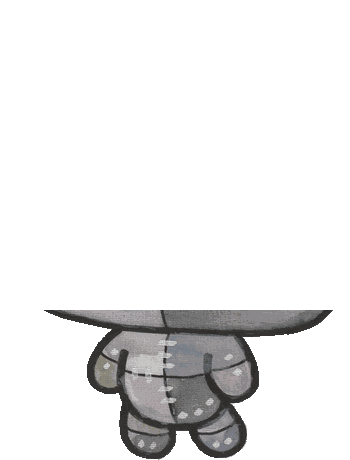
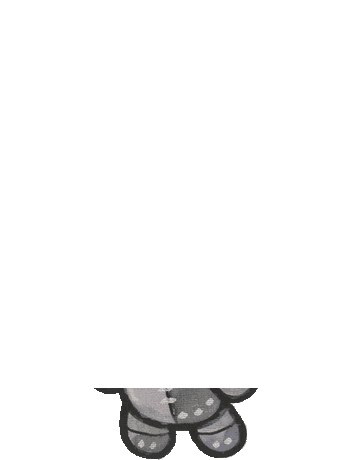
fq-cast-fix-v1: 294の2人が最初に散歩／滑る子のぶつかり解消／腰かけの切れ目を修正

Changed region(s): [[0.1429, 0.6696, 0.9429, 0.8522]]

diff --git a/index.html b/index.html
@@ -152,7 +152,18 @@ const FQ = {
          ★flip:true … この子の絵は左を向いている。散歩は「まず右へ行って帰る」
            動きなので、そのまま当てると行きの20秒間ずっと後ろ向きに歩く。
            絵を反転させるのではなく、動きの向きを絵に合わせている。 */
-      { photo:'img/ch_green.png', move:'walk',   at: 0, flip:true },
+      /* == fq-cast-fix-v1 ==
+         ★いちばん最初の散歩は「294くんと294ちゃんの2人」。
+           photo2 を書くと2人ならびになる（下の build() と .m-walk.duo を参照）。
+           2人とも正面を向いた絵なので flip は要らない。
+         ★前に散歩していた しか（img/ch_green.png）は、いまは出番なし。
+           ファイルは残してあるので、戻したくなったらここを書きかえるだけ。
+         ★ファイル名と中身がずれている子がいる（絵だけ差し替えたため）:
+             ch_beard.png … 白ひげ  → No.16（ふっくらして重そうな子）
+             ch_cat.png   … 黒猫    → No.03（ペガサスに乗った子）
+             ch_braid.png … 三つ編み → No.28（くろいクマ）
+             ch_wood.png  … 箱の顔  → No.26（グレーのうさぎ） */
+      { photo:'img/294kun.png', photo2:'img/294chan.png', move:'walk', at: 0 },
       { photo:'img/ch_beard.png', move:'drop',   at: 5.4  },
       { photo:'img/ch_cat.png',   move:'bounce', at: 15   },
       { photo:'img/ch_pink.png',  move:'skate',  at: 23   },
@@ -353,6 +364,16 @@ const FQ = {
          --aw:clamp(48px,14vw,80px);   /* fq-cast-v2: 自分の幅。落ちる子の位置計算に使う */
          width:var(--aw);pointer-events:none;user-select:none;}
   .actor img{display:block;width:100%;height:auto;transform-origin:50% 100%;}
+  /* == fq-cast-fix-v1 : 2人で散歩 ==
+     ★actors に photo2 を書くと、この形（duo）になる。
+       枠を2人ぶんの幅にして、絵を横にならべるだけ。動き方は1人のときと同じ。
+     ★2人めだけ足の運びを半歩ずらしてある（.34秒 ＝ 歩幅 .68秒の半分）。
+       そろえてしまうと2人が同じ動きになり、人形が2つ滑っていくように見える。
+     ★向きが変わるとき（scaleX(-1)）は並び順も入れかわる。
+       2人が向きを変えて帰ってくる形になるので、これでよい。 */
+  .m-walk.duo{--aw:clamp(88px,26vw,150px);display:flex;align-items:flex-end;}
+  .m-walk.duo img{width:50%;height:auto;}
+  .m-walk.duo img:last-child{animation-delay:.34s;}
 
   /* ① 歩く … 右へ行って、向きを変えて帰ってくる
         fq-walk-stroll-v1: 早足だったのを「散歩」の速さに変えた。
@@ -526,42 +547,50 @@ const FQ = {
   .m-skate{left:0;animation:a-skate 60s ease-in-out infinite;}
   .m-skate img{transform-origin:50% 92%;animation:i-spin 60s ease-in-out infinite;
                animation-delay:var(--at,0s);}   /* ★滑りと同じ出番に合わせる */
-  @keyframes a-skate{
+    /* == fq-cast-fix-v1 ==
+     ★8の字ぜんぶを右へずらした。理由は「落ちてくる子にぶつかっていた」から。
+       落ちる子は入場無料の丸の下に着地する。丸はロゴの幅で位置が決まるので、
+       画面が広いほど右に寄る（実測: 390pxで横4.6〜18.6%、1600pxで31.3〜36.3%）。
+       8の字は vw で書いてあるので、パソコンの幅だと左の輪が
+       ちょうど落ちる子の上を通っていた（1280pxで重なり100%＝貫通）。
+       いちばん左を 42vw にして、1600pxでもぶつからないようにした。
+     ★地面を動く子を足すときは、必ず広い画面（1280px以上）でも確かめること。 */
+@keyframes a-skate{
       /* ── 1回目：左から入って8の字を1周し、右へ抜ける（出番23秒／10秒） ──
          ★奥は 小さく(.80)・ほんの少し上(bottom 5%)、手前は 大きく(1.12)・下(1%)
          ★★奥行きは「大きさ」で出すこと。上下に動かしすぎると、
            奥へ行ったのではなく **上へ跳んだ** ように見える。ここを広げないこと。 */
       0%      {opacity:0; bottom:2.5%; transform:translateX(-90px) scaleX(1)  scale(1);}
       0.5%    {opacity:1; bottom:2.5%; transform:translateX(-90px) scaleX(1)  scale(1);}
-      2.0%    {opacity:1; bottom:2.5%; transform:translateX(48vw)  scaleX(1)  scale(1);}
-      3.0%    {opacity:1; bottom:5%;   transform:translateX(70vw)  scaleX(1)  scale(.80);}
-      4.0%    {opacity:1; bottom:3.5%; transform:translateX(80vw)  scaleX(1)  scale(.90);}
-      4.3%    {opacity:1; bottom:3.5%; transform:translateX(80vw)  scaleX(-1) scale(.90);}
-      5.5%    {opacity:1; bottom:1%;   transform:translateX(70vw)  scaleX(-1) scale(1.12);}
-      6.5%    {opacity:1; bottom:2.5%; transform:translateX(48vw)  scaleX(-1) scale(1);}
-      9.9%    {opacity:1; bottom:2.5%; transform:translateX(48vw)  scaleX(-1) scale(1);}
-     11.4%    {opacity:1; bottom:5%;   transform:translateX(26vw)  scaleX(-1) scale(.80);}
-     12.4%    {opacity:1; bottom:3.5%; transform:translateX(16vw)  scaleX(-1) scale(.90);}
-     12.7%    {opacity:1; bottom:3.5%; transform:translateX(16vw)  scaleX(1)  scale(.90);}
-     13.9%    {opacity:1; bottom:1%;   transform:translateX(26vw)  scaleX(1)  scale(1.12);}
-     14.9%    {opacity:1; bottom:2.5%; transform:translateX(48vw)  scaleX(1)  scale(1);}
+      2.0%    {opacity:1; bottom:2.5%; transform:translateX(62vw)  scaleX(1)  scale(1);}
+      3.0%    {opacity:1; bottom:5%;   transform:translateX(74vw)  scaleX(1)  scale(.80);}
+      4.0%    {opacity:1; bottom:3.5%; transform:translateX(82vw)  scaleX(1)  scale(.90);}
+      4.3%    {opacity:1; bottom:3.5%; transform:translateX(82vw)  scaleX(-1) scale(.90);}
+      5.5%    {opacity:1; bottom:1%;   transform:translateX(74vw)  scaleX(-1) scale(1.12);}
+      6.5%    {opacity:1; bottom:2.5%; transform:translateX(62vw)  scaleX(-1) scale(1);}
+      9.9%    {opacity:1; bottom:2.5%; transform:translateX(62vw)  scaleX(-1) scale(1);}
+     11.4%    {opacity:1; bottom:5%;   transform:translateX(50vw)  scaleX(-1) scale(.80);}
+     12.4%    {opacity:1; bottom:3.5%; transform:translateX(42vw)  scaleX(-1) scale(.90);}
+     12.7%    {opacity:1; bottom:3.5%; transform:translateX(42vw)  scaleX(1)  scale(.90);}
+     13.9%    {opacity:1; bottom:1%;   transform:translateX(50vw)  scaleX(1)  scale(1.12);}
+     14.9%    {opacity:1; bottom:2.5%; transform:translateX(62vw)  scaleX(1)  scale(1);}
      16.3%    {opacity:1; bottom:2.5%; transform:translateX(calc(100vw + 90px)) scaleX(1) scale(1);}
      16.7%    {opacity:0; bottom:2.5%; transform:translateX(calc(100vw + 90px)) scaleX(1) scale(1);}
       /* ── 2回目：右から入って逆回り、左へ抜ける（46.5秒／10秒） ── */
      38.9%    {opacity:0; bottom:2.5%; transform:translateX(calc(100vw + 90px)) scaleX(-1) scale(1);}
      39.4%    {opacity:1; bottom:2.5%; transform:translateX(calc(100vw + 90px)) scaleX(-1) scale(1);}
-     40.9%    {opacity:1; bottom:2.5%; transform:translateX(48vw)  scaleX(-1) scale(1);}
-     41.9%    {opacity:1; bottom:5%;   transform:translateX(26vw)  scaleX(-1) scale(.80);}
-     42.9%    {opacity:1; bottom:3.5%; transform:translateX(16vw)  scaleX(-1) scale(.90);}
-     43.2%    {opacity:1; bottom:3.5%; transform:translateX(16vw)  scaleX(1)  scale(.90);}
-     44.4%    {opacity:1; bottom:1%;   transform:translateX(26vw)  scaleX(1)  scale(1.12);}
-     45.4%    {opacity:1; bottom:2.5%; transform:translateX(48vw)  scaleX(1)  scale(1);}
-     48.8%    {opacity:1; bottom:2.5%; transform:translateX(48vw)  scaleX(1)  scale(1);}
-     50.3%    {opacity:1; bottom:5%;   transform:translateX(70vw)  scaleX(1)  scale(.80);}
-     51.3%    {opacity:1; bottom:3.5%; transform:translateX(80vw)  scaleX(1)  scale(.90);}
-     51.6%    {opacity:1; bottom:3.5%; transform:translateX(80vw)  scaleX(-1) scale(.90);}
-     52.8%    {opacity:1; bottom:1%;   transform:translateX(70vw)  scaleX(-1) scale(1.12);}
-     53.8%    {opacity:1; bottom:2.5%; transform:translateX(48vw)  scaleX(-1) scale(1);}
+     40.9%    {opacity:1; bottom:2.5%; transform:translateX(62vw)  scaleX(-1) scale(1);}
+     41.9%    {opacity:1; bottom:5%;   transform:translateX(50vw)  scaleX(-1) scale(.80);}
+     42.9%    {opacity:1; bottom:3.5%; transform:translateX(42vw)  scaleX(-1) scale(.90);}
+     43.2%    {opacity:1; bottom:3.5%; transform:translateX(42vw)  scaleX(1)  scale(.90);}
+     44.4%    {opacity:1; bottom:1%;   transform:translateX(50vw)  scaleX(1)  scale(1.12);}
+     45.4%    {opacity:1; bottom:2.5%; transform:translateX(62vw)  scaleX(1)  scale(1);}
+     48.8%    {opacity:1; bottom:2.5%; transform:translateX(62vw)  scaleX(1)  scale(1);}
+     50.3%    {opacity:1; bottom:5%;   transform:translateX(74vw)  scaleX(1)  scale(.80);}
+     51.3%    {opacity:1; bottom:3.5%; transform:translateX(82vw)  scaleX(1)  scale(.90);}
+     51.6%    {opacity:1; bottom:3.5%; transform:translateX(82vw)  scaleX(-1) scale(.90);}
+     52.8%    {opacity:1; bottom:1%;   transform:translateX(74vw)  scaleX(-1) scale(1.12);}
+     53.8%    {opacity:1; bottom:2.5%; transform:translateX(62vw)  scaleX(-1) scale(1);}
      55.4%    {opacity:1; bottom:2.5%; transform:translateX(-90px) scaleX(-1) scale(1);}
      55.8%,100%{opacity:0; bottom:2.5%; transform:translateX(-90px) scaleX(1) scale(1);}
   }
@@ -758,10 +787,15 @@ const FQ = {
          animation:a-sit 60s linear infinite;}
   .m-sit .bd{position:relative;z-index:2;display:block;width:100%;height:auto;}
   .m-sit .lg{position:absolute;left:0;top:0;z-index:1;display:block;width:100%;height:auto;
-             transform-origin:50.5% 73.3%;              /* 腰のちょうつがい */
-             /* ★fq-newcast-v1 : 絵を差し替えたので測り直した値。
-                  ch_wood_legs.png の上のふちの位置（縦73.3%）と、
-                  足の中心（横50.5%）。絵を変えたら必ず測り直すこと。 */
+             transform-origin:51.8% 87.8%;              /* 腰のちょうつがい */
+             /* ★fq-cast-fix-v1 : 73.3% から 87.8% へ下げた。
+                  73.3%は「頭のすぐ下」で、そこは絵がいちばん太い。
+                  足の絵を振ると、頭の下の板が横からはみ出して見えていた。
+                  87.8%（胴と足のさかい目）は絵がいちばん細いのではみ出さない。
+                ★切る位置は必ず「絵がいちばん細いところ」を選ぶこと。
+                  太いところで切ると、振ったときに必ずはみ出す。
+                ★絵を差し替えたら、この2つの数字は測り直すこと。
+                  測り方：足の絵の上のふちの縦位置（％）と、足の中心の横位置（％）。 */
              animation:i-kick 1.15s ease-in-out infinite alternate;}
   @keyframes a-sit{
       0%      {opacity:0; transform:translateY(-6px);}
@@ -769,7 +803,8 @@ const FQ = {
       1.7%,12%{opacity:1; transform:translateY(0);}
      13.3%,100%{opacity:0; transform:translateY(0);}
   }
-  @keyframes i-kick{ from{transform:rotate(-12deg);} to{transform:rotate(14deg);} }
+  /* fq-cast-fix-v1: ちょうつがいを腰まで下げたぶん動きが小さくなるので、振り幅を広げた */
+  @keyframes i-kick{ from{transform:rotate(-18deg);} to{transform:rotate(20deg);} }
 
   @media(prefers-reduced-motion:reduce){ .actor{display:none;} }
 
@@ -1425,7 +1460,9 @@ const FQ = {
       if (c.x != null) pos += 'left:' + c.x + '%;';
       if (c.y != null) pos += 'bottom:' + c.y + '%;';
       /* fq-cast-v6: flip:true の子は、動きの左右を裏返す（絵が左向きのため） */
-      return '<div class="actor m-' + esc(c.move) + (c.flip ? ' flip' : '') + '" '
+      /* fq-cast-fix-v1: photo2 があると「2人で散歩」になる（294くんと294ちゃん） */
+      return '<div class="actor m-' + esc(c.move) + (c.flip ? ' flip' : '')
+           + (c.photo2 ? ' duo' : '') + '" '
            /* ★--at は「出番の秒数」。中の絵にも同じ遅れを伝えるために置いている。
               animation-delay は親から子へ受けつがれないので、
               変数にして子から var(--at) で読ませる。
@@ -1435,7 +1472,10 @@ const FQ = {
            + (c.move === 'rocket' ? '<span class="smoke"></span>' : '')
            + (c.move === 'dash'   ? '<span class="dashline"></span>' : '')
            + (c.move === 'drop'   ? '<span class="thud"></span>' : '')
-           + '<img src="' + esc(c.photo) + '" alt="" decoding="async"></div>';
+           + '<img src="' + esc(c.photo) + '" alt="" decoding="async">'
+           /* fq-cast-fix-v1: 2人めがいれば、となりに並べる */
+           + (c.photo2 ? '<img src="' + esc(c.photo2) + '" alt="" decoding="async">' : '')
+           + '</div>';
     }
     $('#actors').innerHTML      = back.map(build).join('');
     $('#actorsfront').innerHTML = front.map(build).join('');

diff --git a/service-worker.js b/service-worker.js
@@ -12,7 +12,7 @@
        つながらない時だけキャッシュを出す（＝オフラインでも開ける）。
      - アイコン・manifest だけ「キャッシュ優先」（変わらないので速さ優先）。
    ------------------------------------------------------------------ */
-const CACHE = 'fq326-v9';   // fq-newcast-v2: ホールのイベントの絵を差し替えたので版を上げる
+const CACHE = 'fq326-v10';  // fq-cast-fix-v1: 散歩キャラの絵を入れ替えたので版を上げる
 // ★画像は下で「キャッシュ優先」にしている。版を上げないと、
 //   一度端末に取り込まれた古い絵がいつまでも出続ける。
 //   ★img/ の絵を差し替えたら、必ずここの数字を上げること。

diff --git a/README.md b/README.md
@@ -3582,3 +3582,110 @@ HIROさんの指定で、ミッション「**ホールのイベントに参加**
 端末には古い絵が残り続ける**（当日これをやると、人によって絵が違うことになる）。
 
 **絵を差し替えたら、必ず版を上げる。** これだけは例外なし。
+
+---
+
+## `fq-cast-fix-v1` — トップの散歩キャラをまとめて直した（2026-09-14）
+
+### ① 294くんと294ちゃんが、2人で散歩してくる
+
+いちばん最初の出番（0〜20秒）を、**294くんと294ちゃんの2人ならび**にした。
+
+仕組みは単純で、`actors` に `photo2` を書き足しただけ。
+
+```js
+{ photo:'img/294kun.png', photo2:'img/294chan.png', move:'walk', at: 0 },
+```
+
+`photo2` があると `build()` が `duo` という印を付け、絵を2枚ならべる。
+動き方（`a-walk`）は1人のときとまったく同じものを使っている。
+
+★**2人めだけ足の運びを半歩ずらしてある**（`.34秒` ＝ 歩幅 `.68秒` の半分）。
+そろえると2人が同じ動きになり、人形が2つ滑っていくように見える。
+
+★前に散歩していた**しか（`ch_green.png`）は、いまは出番なし**。
+ファイルは残してあるので、戻したくなったら `actors` を書きかえるだけ。
+
+### ② 滑る子が、落ちてくる子にぶつかっていた
+
+HIROさんの指摘。**パソコンの画面幅だと、滑る子が落ちてくる子を貫通していた。**
+
+原因は**ものさしが2本ある**こと。
+
+| | 位置の決め方 | 画面が広くなると |
+|---|---|---|
+| 落ちてくる子 | ロゴの幅（`--lw`）と丸（`--fw`）から計算 | ロゴに上限があるので**右に寄る** |
+| 滑る子の8の字 | `vw`（画面幅の割合） | **端まで広がる** |
+
+実測（落ちてくる子の横位置）:
+
+| 画面幅 | 落ちる子 | 滑る子の左の輪 | |
+|---|---|---|---|
+| 390px | 4.6〜18.6% | 16〜30% | かすめる |
+| 1024px | 20.7〜28.5% | 16〜24% | 重なる |
+| 1280px | 26.6〜32.8% | 26〜32% | **貫通** |
+| 1600px | 31.3〜36.3% | 同上 | **貫通** |
+
+**直し方：8の字ぜんぶを右へずらした。**
+
+```
+48vw → 62vw   （8の字の交差点）
+26vw → 50vw ／ 16vw → 42vw  （左の輪）
+70vw → 74vw ／ 80vw → 82vw  （右の輪）
+```
+
+いちばん左が 42vw なので、1600pxでも落ちる子の右はし（36.3%）より右にいる。
+320〜1280pxの8つの幅で総当たりして、**ぶつかりが0件**になったことを確認済み。
+
+★**地面を動く子を足すときは、必ず広い画面（1280px以上）でも確かめること。**
+スマホ幅だけ見ていると、この手のすれ違いは絶対に見つからない。
+
+### ③ 腰かける子の「頭の下の板」が横から出ていた
+
+足を振るために絵を「体」と「足」の2枚に分けているが、切る位置が
+**縦73.3%（頭のすぐ下）**だった。そこは絵のいちばん太いところなので、
+足の絵を振ると、**頭の下の板が横からはみ出して見えていた。**
+
+切る位置を **縦87.8%（胴と足のさかい目）** に下げた。ここは絵がいちばん細い。
+動きが小さくなるぶん、振り幅を `-12°〜14°` から `-18°〜20°` に広げた。
+
+★**切る位置は「絵がいちばん細いところ」を選ぶこと。**
+
+### ④ 絵の入れ替え
+
+| 役どころ | 新しい子 | ファイル名 |
+|---|---|---|
+| 散歩（2人） | 294くん・294ちゃん | `294kun.png` / `294chan.png` |
+| 跳ねる（文字の上を渡る） | No.03 ペガサスに乗った子 | `ch_cat.png` |
+| 落ちる（どーんと落ちてくる） | No.16 ふっくらして重そうな子 | `ch_beard.png` |
+| のぞく（日付の横から） | No.28 くろいクマ | `ch_braid.png` |
+| 腰かけ | No.26 グレーのうさぎ | `ch_wood.png` |
+
+★**ファイル名と中身がずれている**（白ひげ・黒猫・三つ編み・箱の顔は昔の名前）。
+時間割のコメントにも古い呼び名が残っている。`actors` の並びに対応表を書いた。
+
+★**番号は「69体に整理したあと」の番号。**
+72体のころの一覧を見て番号を言うと、No.19より後ろが1〜3ずれる。
+
+### 次に同じことがあったときの調べ方
+
+キャラ同士のぶつかりは、**目で探さずに測る**のが速い。
+開発者コンソールでアニメを止めて、当たり判定を総当たりで見る。
+
+```js
+const acts=[...document.querySelectorAll('.actor')], an=document.getAnimations();
+for(let t=0;t<60000;t+=50){
+  an.forEach(a=>{a.pause(); a.currentTime=t;});
+  const R=acts.map(a=>({r:a.getBoundingClientRect(),o:+getComputedStyle(a).opacity}));
+  for(let i=0;i<R.length;i++)for(let j=i+1;j<R.length;j++){
+    if(R[i].o<.05||R[j].o<.05) continue;
+    const x=Math.min(R[i].r.right,R[j].r.right)-Math.max(R[i].r.left,R[j].r.left);
+    const y=Math.min(R[i].r.bottom,R[j].r.bottom)-Math.max(R[i].r.top,R[j].r.top);
+    if(x>0&&y>0) console.log(t/1000+'s', acts[i].className, acts[j].className);
+  }
+}
+```
+
+★**画面幅を変えながら回すこと。** 390 / 1024 / 1280 / 1600 の4つで足りる。
+★のぞく子（peek）は窓（`overflow:hidden`）で切り抜いているので、
+　この測り方だと**隠れていてもぶつかったことになる**。peek が出たら目で確かめる。
